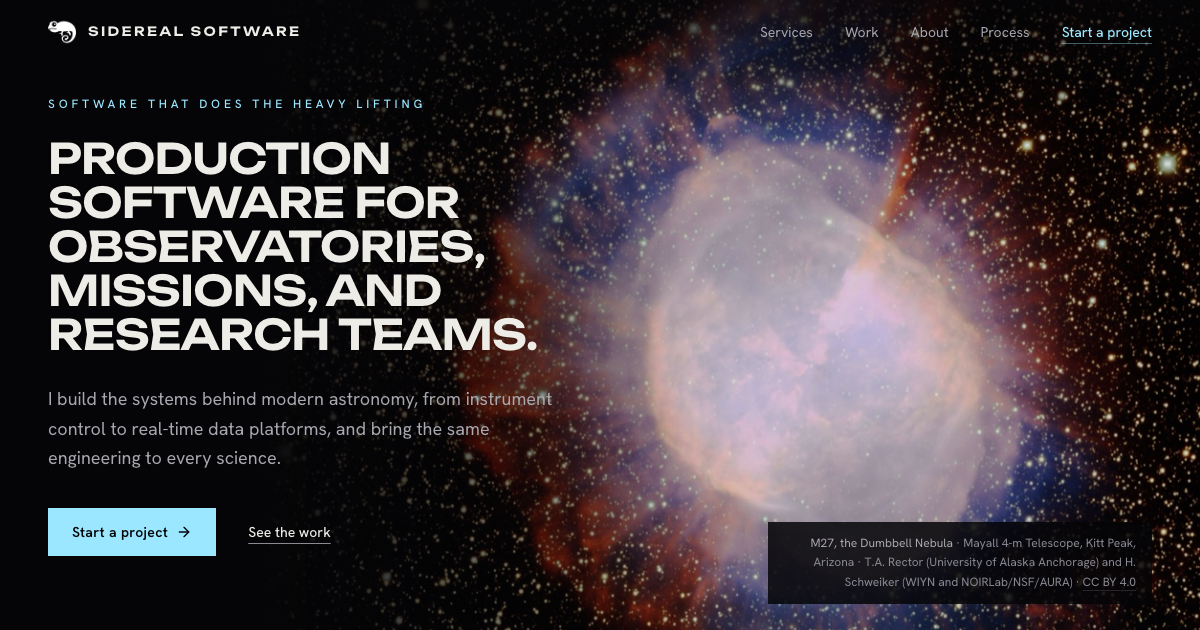
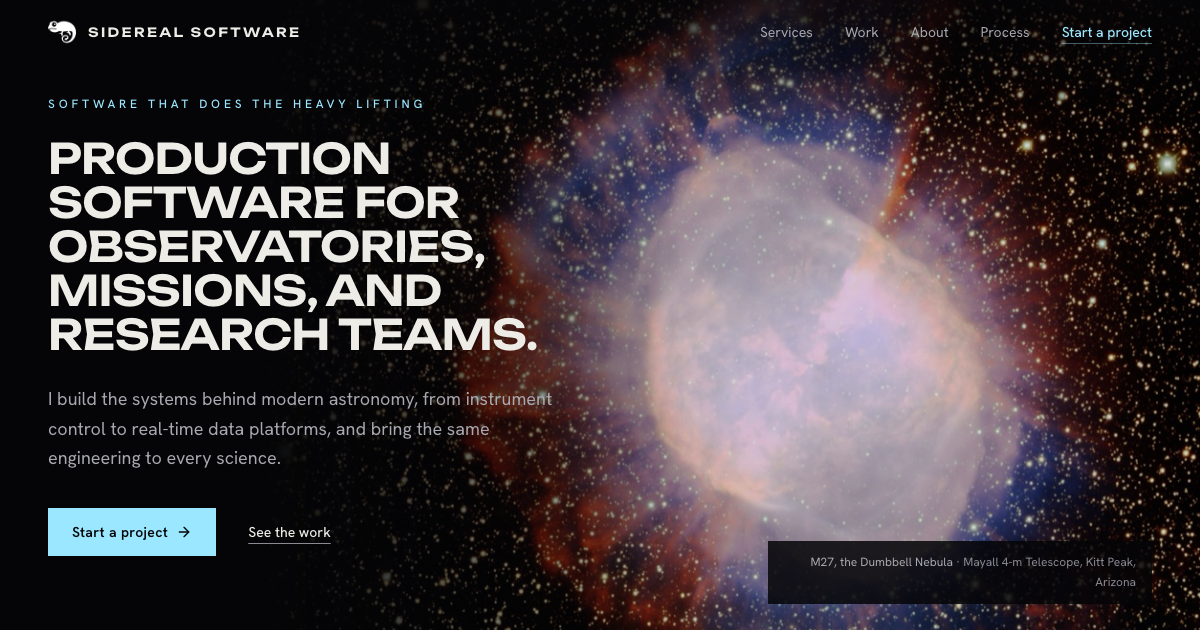
feat(site): credit each photo once, in the footer

Changed region(s): [[0.6167, 0.8143, 0.9558, 0.9349], [0.0617, 0.0302, 0.2467, 0.0603]]

diff --git a/src/App.test.tsx b/src/App.test.tsx
@@ -69,18 +69,17 @@ describe('App', () => {
     ).toBeInTheDocument()
   })
 
-  it('credits the hero image and lists every institution as authored', () => {
+  it('names the hero image and lists every institution as authored', () => {
     render(<App />)
     const hero = screen.getByRole('region', { name: /^Production software/ })
     const caption = within(hero)
       .getByText('M27, the Dumbbell Nebula')
       .closest('figcaption')!
-    expect(caption).toHaveTextContent('Mayall 4-m Telescope, Kitt Peak, Arizona')
-    expect(caption).toHaveTextContent('T.A. Rector (University of Alaska Anchorage)')
-    expect(within(caption).getByRole('link', { name: 'CC BY 4.0' })).toHaveAttribute(
-      'href',
-      'https://creativecommons.org/licenses/by/4.0/',
+    expect(caption).toHaveTextContent(
+      'M27, the Dumbbell Nebula · Mayall 4-m Telescope, Kitt Peak, Arizona',
     )
+    expect(caption).not.toHaveTextContent('T.A. Rector')
+    expect(within(caption).queryByRole('link')).toBeNull()
     const institutions = within(
       within(hero).getByRole('list', { name: 'Institutions I have worked with' }),
     )
@@ -123,13 +122,13 @@ describe('App', () => {
     }
   })
 
-  it('reaches the hero image license only after both calls to action', () => {
+  it('offers only the two calls to action as hero links', () => {
     render(<App />)
     const hero = screen.getByRole('region', { name: /^Production software/ })
     const links = within(hero)
       .getAllByRole('link')
       .map((link) => link.textContent)
-    expect(links).toEqual(['Start a project', 'See the work', 'CC BY 4.0'])
+    expect(links).toEqual(['Start a project', 'See the work'])
   })
 
   it('loads the hero image first, sized for the screen', () => {
@@ -369,7 +368,7 @@ describe('App', () => {
     expect(entries[0]).toContain('2023 - present')
   })
 
-  it('captions every Work photo and credits it in the footer', () => {
+  it('captions every Work photo by name and place and credits it only in the footer', () => {
     render(<App />)
     const work = screen
       .getByRole('heading', { level: 2, name: 'Work' })
@@ -384,7 +383,9 @@ describe('App', () => {
         (entry) => entry.src === photo.getAttribute('src'),
       )
       expect(image, `no credit data for ${photo.getAttribute('src')}`).toBeDefined()
-      expect(photo.closest('figure')).toHaveTextContent(image!.credit)
+      const figure = photo.closest('figure')!
+      expect(figure).toHaveTextContent(`${image!.name} · ${image!.location}`)
+      expect(figure).not.toHaveTextContent(image!.credit)
       expect(within(footer).getByRole('link', { name: image!.name })).toBeInTheDocument()
     }
   })

diff --git a/src/components/sections/hero.tsx b/src/components/sections/hero.tsx
@@ -1,7 +1,7 @@
 import { animated } from '@react-spring/web'
 import { ArrowRight } from 'lucide-react'
 
-import { ImageCredit } from '@/components/image-credit'
+import { ImageCaption } from '@/components/image-caption'
 import { PressLink } from '@/components/press'
 import { heroImage } from '@/content/images'
 import { institutions } from '@/content/institutions'
@@ -69,7 +69,7 @@ export function Hero() {
           />
         </div>
         <div className="from-background/80 absolute inset-x-0 top-0 h-32 bg-linear-to-b to-transparent" />
-        <ImageCredit
+        <ImageCaption
           image={heroImage}
           className="absolute inset-x-5 bottom-0 sm:inset-x-8 md:inset-x-auto md:right-8 md:bottom-32 lg:bottom-24 md:max-w-[24rem] md:bg-background/85 md:px-4 md:py-3 md:text-right lg:right-12"
         />

diff --git a/src/components/image-caption.tsx b/src/components/image-caption.tsx
@@ -1,7 +1,7 @@
 import type { CreditedImage } from '@/content/images'
 import { cn } from '@/lib/utils'
 
-export function ImageCredit({
+export function ImageCaption({
   image,
   className,
 }: {
@@ -13,16 +13,6 @@ export function ImageCredit({
       <span className="text-muted-foreground">{image.name}</span>
       <span aria-hidden> · </span>
       {image.location}
-      <span aria-hidden> · </span>
-      {image.credit}
-      <span aria-hidden> · </span>
-      <a
-        href={image.licenseUrl}
-        target="_blank"
-        rel="noreferrer"
-        className="decoration-border hover:text-foreground whitespace-nowrap hover:decoration-primary underline underline-offset-4 transition-colors">
-        {image.license}
-      </a>
     </figcaption>
   )
 }

diff --git a/src/components/sections/work.tsx b/src/components/sections/work.tsx
@@ -1,7 +1,7 @@
 import { ArrowUpRight, ChevronDown } from 'lucide-react'
 import { useId, useState } from 'react'
 
-import { ImageCredit } from '@/components/image-credit'
+import { ImageCaption } from '@/components/image-caption'
 import { Monument } from '@/components/monument'
 import {
   career,
@@ -53,7 +53,7 @@ function CreditedPhoto({
         loading="lazy"
         className={cn('aspect-[16/10] w-full object-cover', imageClassName)}
       />
-      <ImageCredit image={image} className="pt-4" />
+      <ImageCaption image={image} className="pt-4" />
     </figure>
   )
 }

diff --git a/src/content/images.ts b/src/content/images.ts
@@ -18,7 +18,7 @@ export interface CreditedImage {
   height: number
 }
 
-// Captions name the subject, place, and credit only; licenses must allow commercial use.
+// Captions name the subject and place only, so each credit appears once, in the footer; licenses must allow commercial use.
 // index.html preloads the same candidates and sizes; src/head.test.ts keeps the two in step.
 export const heroImage: CreditedImage & { smallSrc: string; sizes: string } = {
   src: m27,

diff --git a/DESIGN.md b/DESIGN.md
@@ -198,7 +198,7 @@ Both are self-hosted through Fontsource; no font is loaded from a third party.
 - **Body** (Hanken Grotesk 400, 1.125rem, 1.625): paragraphs, 34-62ch measures. 1rem in dense lists.
 - **Body small** (Hanken Grotesk 400, 0.875rem): nav, buttons, links, metadata.
 - **Label** (Hanken Grotesk 500, 0.75rem, 0.32em tracking, uppercase, dust grey): small headings that name their own block (Career, Publications, Questions, Image credits; the `label-heading` utility) and term labels (Problem, Approach, Outcome; form labels at 0.2em in moon grey).
-- **Caption** (Hanken Grotesk 400, 0.75rem, 1.625, dust grey with the image name in moon grey): image credits, separated by middle dots.
+- **Caption** (Hanken Grotesk 400, 0.75rem, 1.625, dust grey with the image name in moon grey): photo captions (name and place) and the footer's image credits, separated by middle dots.
 
 ### Named Rules
 
@@ -248,7 +248,7 @@ Few, solid, and square.
 ### Links
 
 - **Accent link** (the `link-accent` utility): ice-cyan text, underline offset 6px at 40% cyan, full cyan on hover. Used for "Start a project" in the header, repository and paper links (with an up-right arrow), the GitHub organization line, and the revealed email.
-- **Quiet link:** ink or moon-grey text with a dust-grey underline that turns ink or cyan on hover. Used for "See the work", profile links, publication titles, "Back to top", and caption license links.
+- **Quiet link:** ink or moon-grey text with a dust-grey underline that turns ink or cyan on hover. Used for "See the work", profile links, publication titles, "Back to top", and the footer's credit and license links.
 
 ### Inputs / Fields
 
@@ -269,9 +269,9 @@ Numbered or dated rows divided by hairlines: services (cyan two-digit number, up
 
 The About section opens on the pull quote, then a byline: a square crop of Dan's portrait (96px beside his name and title on phones, 192-208px above them from 768px) with the profile links under it in the left four columns, and the two paragraphs from column five. The portrait is small on purpose: the work above it carries the credibility, and the face only puts a name to it. It is Dan's own photo, so it carries no credit caption.
 
-### Image Credit
+### Image Caption
 
-Every photo carries a caption: name, location, credit, and a linked license, middle-dot separated, in 0.75rem dust grey. The footer repeats every credit with the source link.
+Every photo carries a caption: its name in moon grey and its location, middle-dot separated, in 0.75rem dust grey. The credit, the linked license, and the source link appear once, in the footer's Image credits list, so a caption never repeats them.
 
 The caption always reads as part of its photo, never as the first line of the text below it: it sits 16px directly under the image, left aligned, at every width, and any heading for that photo's content comes after it. The hero is the one exception, with its caption on the image.
 
@@ -295,7 +295,7 @@ The section title described in the Monument Scale Rule. It is an h2 by default (
 - **Do** use the Monument component for a new section title so it takes the shared Display size; never size one by hand.
 - **Do** author generic titles in sentence case and let CSS uppercase them; route uppercase text with a mixed-case acronym through Caps.
 - **Do** keep proper names, institutions, and brands in their authored casing (pyINDI, NSF NOIRLab, Caltech / IPAC, SPHEREx).
-- **Do** credit every photo in a caption and in the footer credits list.
+- **Do** caption every photo with its name and place, and credit it once, in the footer credits list.
 - **Do** show CC BY-SA photos unaltered: CSS cropping (object-fit, aspect ratio, overflow) only.
 - **Do** keep every new animation behind the shared motion module or a reduced-motion query, and start content visible.
 - **Do** keep every text color at WCAG AA on both grounds and every control boundary at 3:1.

diff --git a/CLAUDE.md b/CLAUDE.md
@@ -46,7 +46,7 @@ either.
 - `src/components/sections/` - one file per section
 - `src/components/monument.tsx` - the section titles and case-study names, each at a
   fixed clamp size (76px at most); `caps.tsx` keeps mixed-case acronyms (APIs, pyINDI) intact
-  inside uppercase text; `image-credit.tsx` captions photos
+  inside uppercase text; `image-caption.tsx` captions photos
 - `src/content/` - site data: `career.ts` (career and case-study dates, best guesses),
   `images.ts` (every photo and its credit; also feeds the footer), `publications.ts`
   (the hand-picked featured three and profile links)
@@ -81,7 +81,7 @@ credentials, statistics, or testimonials. Sources of truth: Dan's personal site
   if ORCID fails. The featured three in `publications.ts` are curated by hand.
   `src/lib/orcid.js` stays plain JavaScript so Node runs the script without a build.
 - Every photo needs a license that allows commercial use and an entry in
-  `src/content/images.ts`; captions give name, location, and credit only. CC BY-SA
+  `src/content/images.ts`; captions give name and location only; each credit, license, and source link appears once, in the footer's Image credits list. CC BY-SA
   photos are shown unaltered (cropping only).
 - `public/og.png` is a 1200x630 screenshot of the hero. It is the social
   preview, so regenerate it whenever the hero copy changes or it will advertise stale
